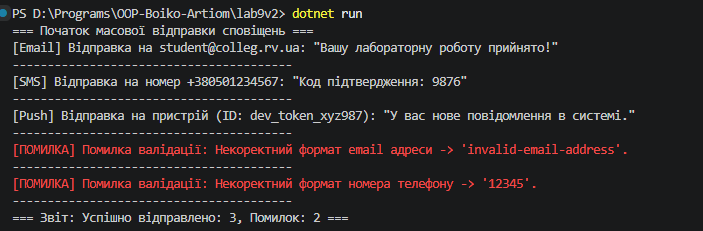
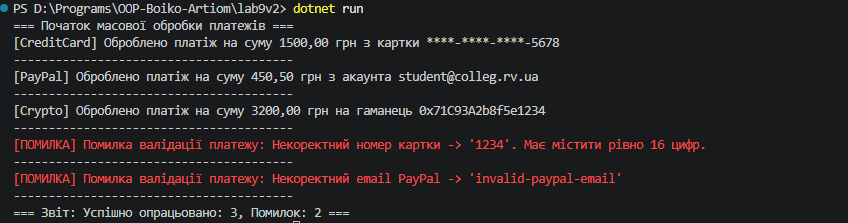
lab9v2: оновлено код без попереджень

diff --git a/lab9v2/Program.cs b/lab9v2/Program.cs
@@ -1,146 +1,123 @@
 using System;
 using System.Collections.Generic;
-using System.Text.RegularExpressions;
 
-namespace lab9v1
+namespace lab9v2
 {
-    // 1. Абстрактний базовий клас
-    public abstract class Notification
+    // Абстрактний базовий клас
+    abstract class Payment
     {
-        public string Recipient { get; set; } = string.Empty;
-        public string Message { get; set; } = string.Empty;
-
-        // Поліморфний метод відправки
-        public abstract void Send();
-
-        // Загальний метод валідації
-        public abstract bool Validate();
+        public decimal Amount { get; set; }
+        public abstract void Validate();
+        public abstract void Process();
     }
 
-    // 2. Похідні класи
-
-    public class EmailNotification : Notification
+    // Похідний клас: Оплата банківською карткою
+    class CreditCardPayment : Payment
     {
-        public override bool Validate()
-        {
-            string pattern = @"^[^@\s]+@[^@\s]+\.[^@\s]+$";
-            return !string.IsNullOrEmpty(Recipient) && Regex.IsMatch(Recipient, pattern);
-        }
+        public string CardNumber { get; set; } = string.Empty;
 
-        public override void Send()
+        public override void Validate()
         {
-            if (!Validate())
+            if (string.IsNullOrWhiteSpace(CardNumber) || CardNumber.Length != 16 || !long.TryParse(CardNumber, out _))
             {
-                throw new FormatException($"Помилка валідації: Некоректний формат email адреси -> '{Recipient}'.");
+                throw new ArgumentException($"Некоректний номер картки -> '{CardNumber}'. Має містити рівно 16 цифр.");
             }
-            Console.WriteLine($"[Email] Відправка на {Recipient}: \"{Message}\"");
+        }
+
+        public override void Process()
+        {
+            Validate();
+            Console.WriteLine($"[CreditCard] Оброблено платіж на суму {Amount} грн з картки ****-****-****-{CardNumber.Substring(12)}");
         }
     }
 
-    public class SMSNotification : Notification
+    // Похідний клас: Оплата через PayPal
+    class PayPalPayment : Payment
     {
-        public override bool Validate()
-        {
-            string pattern = @"^\+\d{10,15}$";
-            return !string.IsNullOrEmpty(Recipient) && Regex.IsMatch(Recipient, pattern);
-        }
+        public string Email { get; set; } = string.Empty;
 
-        public override void Send()
+        public override void Validate()
         {
-            if (!Validate())
+            if (string.IsNullOrWhiteSpace(Email) || !Email.Contains("@") || !Email.Contains("."))
             {
-                throw new FormatException($"Помилка валідації: Некоректний формат номера телефону -> '{Recipient}'.");
+                throw new ArgumentException($"Некоректний email PayPal -> '{Email}'");
             }
-            Console.WriteLine($"[SMS] Відправка на номер {Recipient}: \"{Message}\"");
+        }
+
+        public override void Process()
+        {
+            Validate();
+            Console.WriteLine($"[PayPal] Оброблено платіж на суму {Amount} грн з акаунта {Email}");
         }
     }
 
-    public class PushNotification : Notification
+    // Похідний клас: Криптоплатіж
+    class CryptoPayment : Payment
     {
-        public override bool Validate()
-        {
-            return !string.IsNullOrEmpty(Recipient) && Recipient.Length >= 5;
-        }
+        public string WalletAddress { get; set; } = string.Empty;
 
-        public override void Send()
+        public override void Validate()
         {
-            if (!Validate())
+            if (string.IsNullOrWhiteSpace(WalletAddress) || WalletAddress.Length < 10)
             {
-                throw new ArgumentException($"Помилка валідації: Некоректний або занадто короткий Device ID -> '{Recipient}'.");
+                throw new ArgumentException($"Некоректна крипто-адреса -> '{WalletAddress}'");
             }
-            Console.WriteLine($"[Push] Відправка на пристрій (ID: {Recipient}): \"{Message}\"");
+        }
+
+        public override void Process()
+        {
+            Validate();
+            Console.WriteLine($"[Crypto] Оброблено платіж на суму {Amount} грн на гаманець {WalletAddress}");
         }
     }
 
-    // 3. Клас-сервіс для масової обробки сповіщень
-    public class NotificationService
+    // Сервіс для масової обробки платежів
+    class PaymentService
     {
-        public void SendAll(List<Notification> notifications)
+        public void ProcessAll(List<Payment> payments)
         {
-            Console.WriteLine("=== Початок масової відправки сповіщень ===");
+            Console.WriteLine("=== Початок масової обробки платежів ===");
             int successCount = 0;
             int errorCount = 0;
 
-            foreach (var notification in notifications)
+            foreach (var payment in payments)
             {
                 try
                 {
-                    notification.Send();
+                    payment.Process();
                     successCount++;
                 }
                 catch (Exception ex)
                 {
-                    errorCount++;
                     Console.ForegroundColor = ConsoleColor.Red;
-                    Console.WriteLine($"[ПОМИЛКА] {ex.Message}");
+                    Console.WriteLine($"[ПОМИЛКА] Помилка валідації платежу: {ex.Message}");
                     Console.ResetColor();
+                    errorCount++;
                 }
-                Console.WriteLine(new string('-', 40));
+                Console.WriteLine("----------------------------------------");
             }
 
-            Console.WriteLine($"=== Звіт: Успішно відправлено: {successCount}, Помилок: {errorCount} ===\n");
+            Console.WriteLine($"=== Звіт: Успішно опрацьовано: {successCount}, Помилок: {errorCount} ===");
         }
     }
 
-    // 4. Демонстрація роботи в Main
     class Program
     {
         static void Main(string[] args)
         {
-            Console.OutputEncoding = System.Text.Encoding.UTF8;
-
-            List<Notification> notifications = new List<Notification>
+            List<Payment> payments = new List<Payment>
             {
-                new EmailNotification 
-                { 
-                    Recipient = "student@colleg.rv.ua", 
-                    Message = "Вашу лабораторну роботу прийнято!" 
-                },
-                new SMSNotification 
-                { 
-                    Recipient = "+380501234567", 
-                    Message = "Код підтвердження: 9876" 
-                },
-                new PushNotification 
-                { 
-                    Recipient = "dev_token_xyz987", 
-                    Message = "У вас нове повідомлення в системі." 
-                },
+                new CreditCardPayment { Amount = 1500.00m, CardNumber = "1234567812345678" },
+                new PayPalPayment { Amount = 450.50m, Email = "student@colleg.rv.ua" },
+                new CryptoPayment { Amount = 3200.00m, WalletAddress = "0x71C93A2b8f5e1234" },
+                
                 // Навмисно невалідні об'єкти для демонстрації обробки помилок
-                new EmailNotification 
-                { 
-                    Recipient = "invalid-email-address", 
-                    Message = "Тестове повідомлення з помилкою" 
-                },
-                new SMSNotification 
-                { 
-                    Recipient = "12345", 
-                    Message = "Помилковий SMS" 
-                }
+                new CreditCardPayment { Amount = 500.00m, CardNumber = "1234" },
+                new PayPalPayment { Amount = 100.00m, Email = "invalid-paypal-email" }
             };
 
-            NotificationService service = new NotificationService();
-            service.SendAll(notifications);
+            PaymentService service = new PaymentService();
+            service.ProcessAll(payments);
         }
     }
 }

diff --git a/lab9v2/Readme.md b/lab9v2/Readme.md
@@ -2,12 +2,12 @@
 
 Під час виконання лабораторної роботи №9 було досліджено та практично застосовано принципи поліморфізму, абстрактних класів та обробки винятків (try-catch) у мові програмування C# (.NET SDK).
 
-На прикладі ієрархії класів сповіщень Notification -> EmailNotification, SMSNotification, PushNotification (Варіант 1) було реалізовано:
-1. Абстрактний базовий клас Notification з поліморфними методами Send() та Validate().
-2. Похідні класи, які реалізують специфічну логіку валідації та відправки для кожного типу сповіщень.
-3. Клас-сервіс NotificationService для масової обробки колекції сповіщень із безпечним перехопленням помилок за допомогою блоку try-catch.
+На прикладі ієрархії класів платежів Payment -> CreditCardPayment, PayPalPayment, CryptoPayment (Варіант 2) було реалізовано:
+1. Абстрактний базовий клас Payment з поліморфними методами Process() та Validate().
+2. Похідні класи, які реалізують специфічну логіку валідації та проведення платежів для кожного типу транзакцій.
+3. Клас-сервіс PaymentService для масової обробки колекції платежів із безпечним перехопленням помилок за допомогою блоку try-catch.
 
-У результаті виконання програми продемонстровано, що поліморфні виклики дозволяють гнучко обробляти різні типи об'єктів у єдиному циклі, а механізм винятків коректно запобігає аварійному завершенню програми при передачі невалідних даних (некоректних email-адрес чи номерів телефонів).
+У результаті виконання програми продемонстровано, що поліморфні виклики дозволяють гнучко обробляти різні типи платіжних систем у єдиному циклі, а механізм винятків коректно запобігає аварійному завершенню програми при передачі невалідних даних (некоректних номерів карток чи email-адрес).
 
 Робота підтвердила переваги об'єктно-орієнтованого програмування для створення надійного, розширюваного та захищеного від помилок коду.
 
